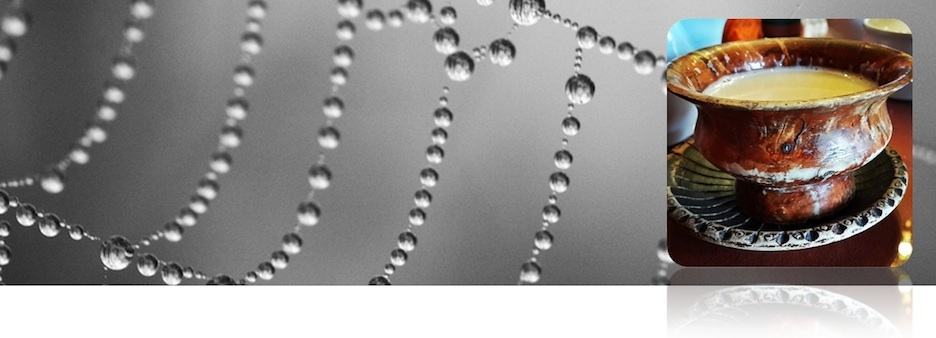
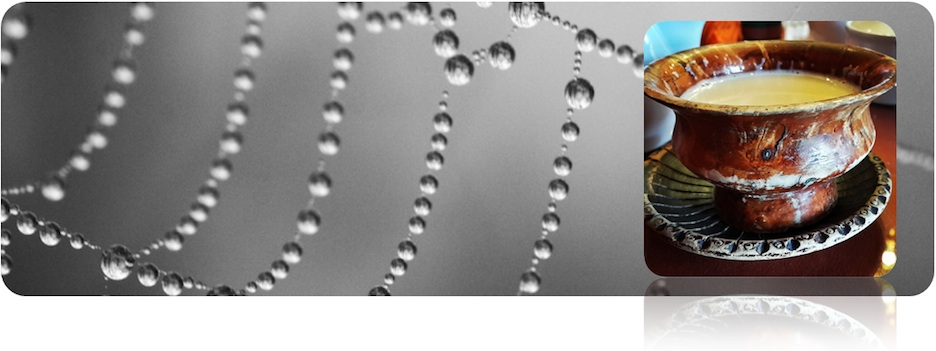
tweaking layout

diff --git a/_site/index.html b/_site/index.html
@@ -65,13 +65,14 @@
       
       <script type="text/javascript" src="http://ajax.googleapis.com/ajax/libs/prototype/1.6/prototype.js"></script>
 
+
+
+      <div id="content">
       <div id="search_area" style="display: none">
         <label for="search" style="display: none">Search</label>
         <img src="http://www.famfamfam.com/lab/icons/silk/icons/cancel.png" alt="X"/>
         <input id="search" />
       </div>
-
-      <div id="content">
         <div id="search_results_area">
   <h2>Posts <span id="result_count"></span></h2>
   <ul id="search_results" class="posts">

diff --git a/_site/Pages/HelloWorld.html b/_site/Pages/HelloWorld.html
@@ -69,13 +69,14 @@
       
       <script type="text/javascript" src="http://ajax.googleapis.com/ajax/libs/prototype/1.6/prototype.js"></script>
 
+
+
+      <div id="content">
       <div id="search_area" style="display: none">
         <label for="search" style="display: none">Search</label>
         <img src="http://www.famfamfam.com/lab/icons/silk/icons/cancel.png" alt="X"/>
         <input id="search" />
       </div>
-
-      <div id="content">
         <div id="post">
   <h2>Hello World</h2>
   <h4>A (very) brief introduction of who I am</h4>

diff --git a/_layouts/default.html b/_layouts/default.html
@@ -71,13 +71,14 @@
       
       <script type="text/javascript" src="http://ajax.googleapis.com/ajax/libs/prototype/1.6/prototype.js"></script>
 
+
+
+      <div id="content">
       <div id="search_area" style="display: none">
         <label for="search" style="display: none">Search</label>
         <img src="http://www.famfamfam.com/lab/icons/silk/icons/cancel.png" alt="X"/>
         <input id="search" />
       </div>
-
-      <div id="content">
         {{ content }}
       </div>
       

diff --git a/_site/stylesheets/default.css b/_site/stylesheets/default.css
@@ -123,7 +123,7 @@ h3 {
 #search_area {
   width: 80px;
   float: right;
-  margin: 20px 80px;
+  margin: 0px 60px;
   position: relative;
 }
 #search {

diff --git a/stylesheets/default.css b/stylesheets/default.css
@@ -123,7 +123,7 @@ h3 {
 #search_area {
   width: 80px;
   float: right;
-  margin: 20px 80px;
+  margin: 0px 60px;
   position: relative;
 }
 #search {
